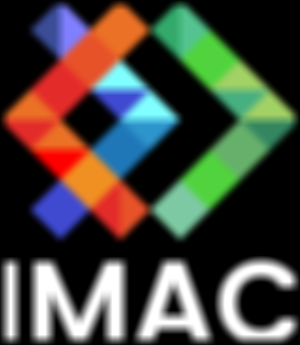
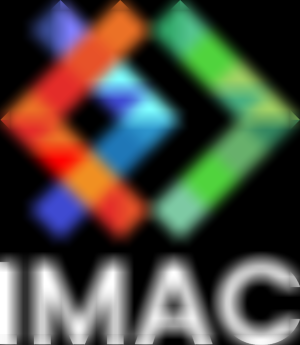
Lucas V3

diff --git a/src/NetteteContour/main.cpp b/src/NetteteContour/main.cpp
@@ -1,17 +1,62 @@
 #include <sil/sil.hpp>
 
+
+
 int main()
 {
-    sil::Image image{"images/logo.png"};
+    sil::Image imageRef{"images/logo.png"};
+    sil::Image imageOutput{"images/logo.png"};
     // TODO: modifier l'image
-    
-    for (glm::vec3& color : image.pixels())
-    {
-        float pixel_baw{(color.r+color.b+color.g)/3};
-        color.r = pixel_baw;
-        color.b = pixel_baw;
-        color.g = pixel_baw;
-    }
-    image.save("output/exo3.png");
 
+    int intensiteFlou{1};
+
+    for(int x{0}; x<imageOutput.width(); x++){
+        for(int y{0}; y<imageOutput.height(); y++){
+            glm::vec3 vecteur{};
+            for(int i{0}; i<2*intensiteFlou+1; i++){
+                for(int j{0}; j<2*intensiteFlou+1; j++){
+                    if((x+i-(intensiteFlou)<intensiteFlou)||(y+j-(intensiteFlou)<intensiteFlou)||(x+i-(intensiteFlou)>imageOutput.width()-intensiteFlou-1)||(y+j-(intensiteFlou)>imageOutput.height()-intensiteFlou-1)){
+                        continue;
+                    }
+                    float facteur{1};
+                    if(i-(intensiteFlou)>0){
+                        if(j-(intensiteFlou)<0){
+                            facteur = 0.f;
+                        }
+                        if(j-(intensiteFlou)==0){
+                            facteur = -1.f;
+                        }
+                        if(j-(intensiteFlou)>0){
+                            facteur = 0.f;
+                        }
+                    }
+                    if(i-(intensiteFlou)==0){
+                        if(j-(intensiteFlou)<0){
+                            facteur = -1.f;
+                        }
+                        if(j-(intensiteFlou)==0){
+                            facteur = 5.f;
+                        }
+                        if(j-(intensiteFlou)>0){
+                            facteur = -1.f;
+                        }
+                    }
+                    if(i-(intensiteFlou)<0){
+                        if(j-(intensiteFlou)<0){
+                            facteur = 0.f;
+                        }
+                        if(j-(intensiteFlou)==0){
+                            facteur = -1.f;
+                        }
+                        if(j-(intensiteFlou)>0){
+                            facteur = 0.f;
+                        }
+                    }
+                    vecteur += facteur*imageRef.pixel(x+i-(intensiteFlou),y+j-(intensiteFlou));
+                }
+            }
+            imageOutput.pixel(x,y) = vecteur;
+        }
+    }
+    imageOutput.save("output/exo22_sharpen.png");
 }

diff --git a/src/DifferenceDeGaussienne/main.cpp b/src/DifferenceDeGaussienne/main.cpp
@@ -1,17 +1,30 @@
 #include <sil/sil.hpp>
 
+
+
 int main()
 {
-    sil::Image image{"images/logo.png"};
+    sil::Image imageRef{"images/logo.png"};
+    sil::Image imageOutput{"images/logo.png"};
     // TODO: modifier l'image
-    
-    for (glm::vec3& color : image.pixels())
-    {
-        float pixel_baw{(color.r+color.b+color.g)/3};
-        color.r = pixel_baw;
-        color.b = pixel_baw;
-        color.g = pixel_baw;
+
+    int intensiteFlou{3};
+    int intensiteFlouSub{7};
+
+    for(int x{0}; x<imageOutput.width(); x++){
+        for(int y{0}; y<imageOutput.height(); y++){
+            glm::vec3 vecteur{};
+            for(int i{0}; i<2*intensiteFlou+1; i++){
+                for(int j{0}; j<2*intensiteFlou+1; j++){
+                    if((x+i-(intensiteFlou)<intensiteFlou)||(y+j-(intensiteFlou)<intensiteFlou)||(x+i-(intensiteFlou)>imageOutput.width()-intensiteFlou-1)||(y+j-(intensiteFlou)>imageOutput.height()-intensiteFlou-1)){
+                        continue;
+                    }
+                    vecteur += imageRef.pixel(x+i-(intensiteFlou),y+j-(intensiteFlou));
+                }
+            }
+            imageOutput.pixel(x,y) = vecteur/static_cast<float>(pow((intensiteFlou*2)+1,2));
+        }
     }
-    image.save("output/exo3.png");
+    imageOutput.save("output/exo24.png");
 
 }

diff --git a/src/Convolution/main.cpp b/src/Convolution/main.cpp
@@ -8,17 +8,20 @@ int main()
     sil::Image imageOutput{"images/logo.png"};
     // TODO: modifier l'image
 
-    int intensiteFlou{5};
+    int intensiteFlou{10};
 
     for(int x{0}; x<imageOutput.width(); x++){
         for(int y{0}; y<imageOutput.height(); y++){
             glm::vec3 vecteur{};
             for(int i{0}; i<2*intensiteFlou+1; i++){
                 for(int j{0}; j<2*intensiteFlou+1; j++){
-                    if((x+i-(intensiteFlou)<intensiteFlou)||(y+j-(intensiteFlou)<intensiteFlou)||(x+i-(intensiteFlou)>imageOutput.width()-intensiteFlou-1)||(y+j-(intensiteFlou)>imageOutput.height()-intensiteFlou-1)){
+                    int xi{x+i-(intensiteFlou)};
+                    int yi{y+j-(intensiteFlou)};
+                    if((xi<0)||(yi<0)||(yi>=imageRef.height())||(xi>=imageRef.width())){
+                        vecteur += imageRef.pixel(x,y);
                         continue;
                     }
-                    vecteur += imageRef.pixel(x+i-(intensiteFlou),y+j-(intensiteFlou));
+                    vecteur += imageRef.pixel(xi,yi);
                 }
             }
             imageOutput.pixel(x,y) = vecteur/static_cast<float>(pow((intensiteFlou*2)+1,2));
